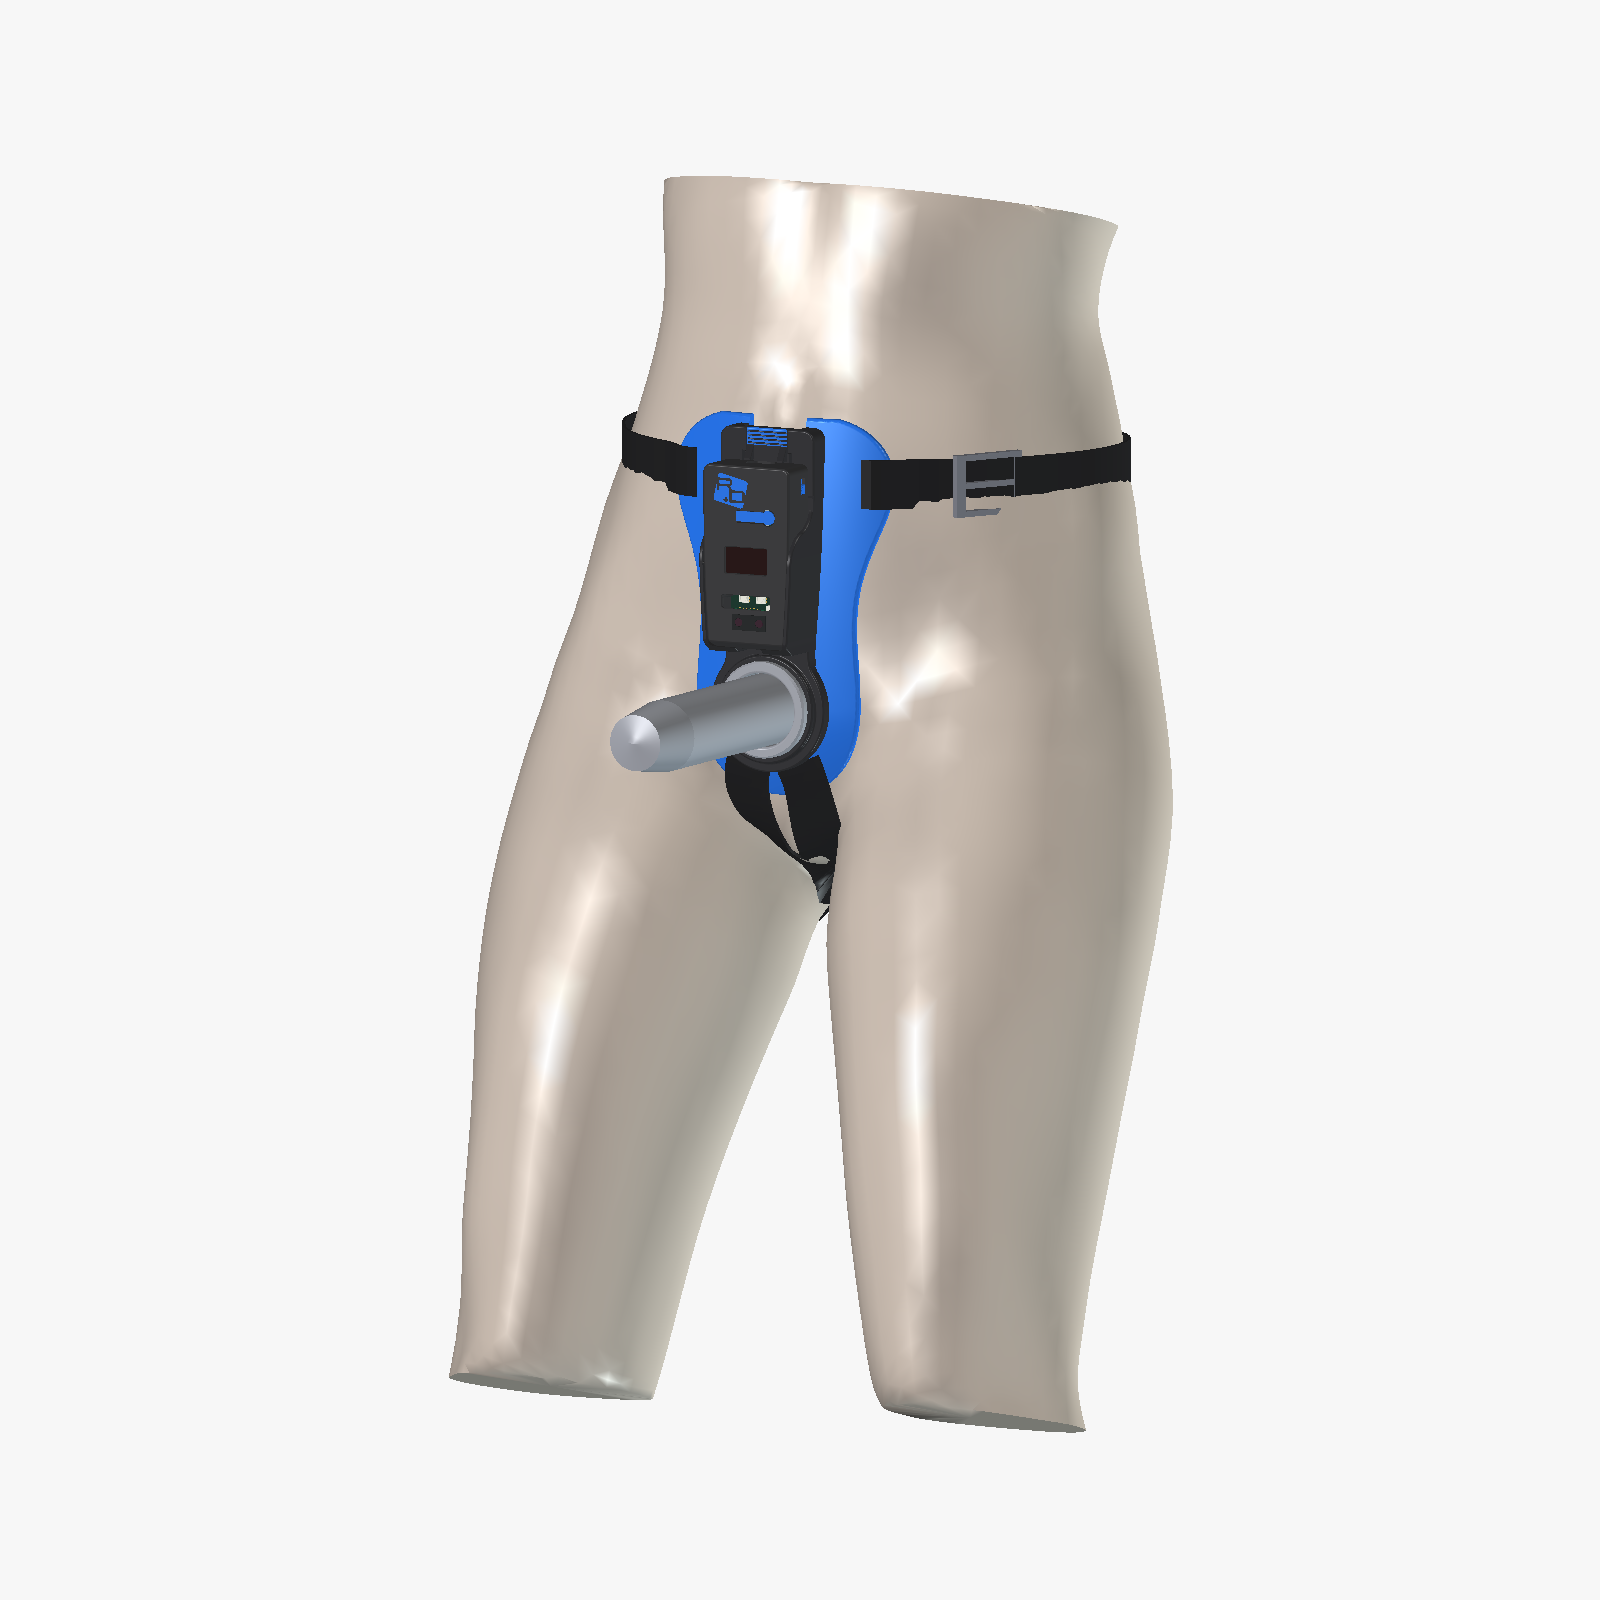
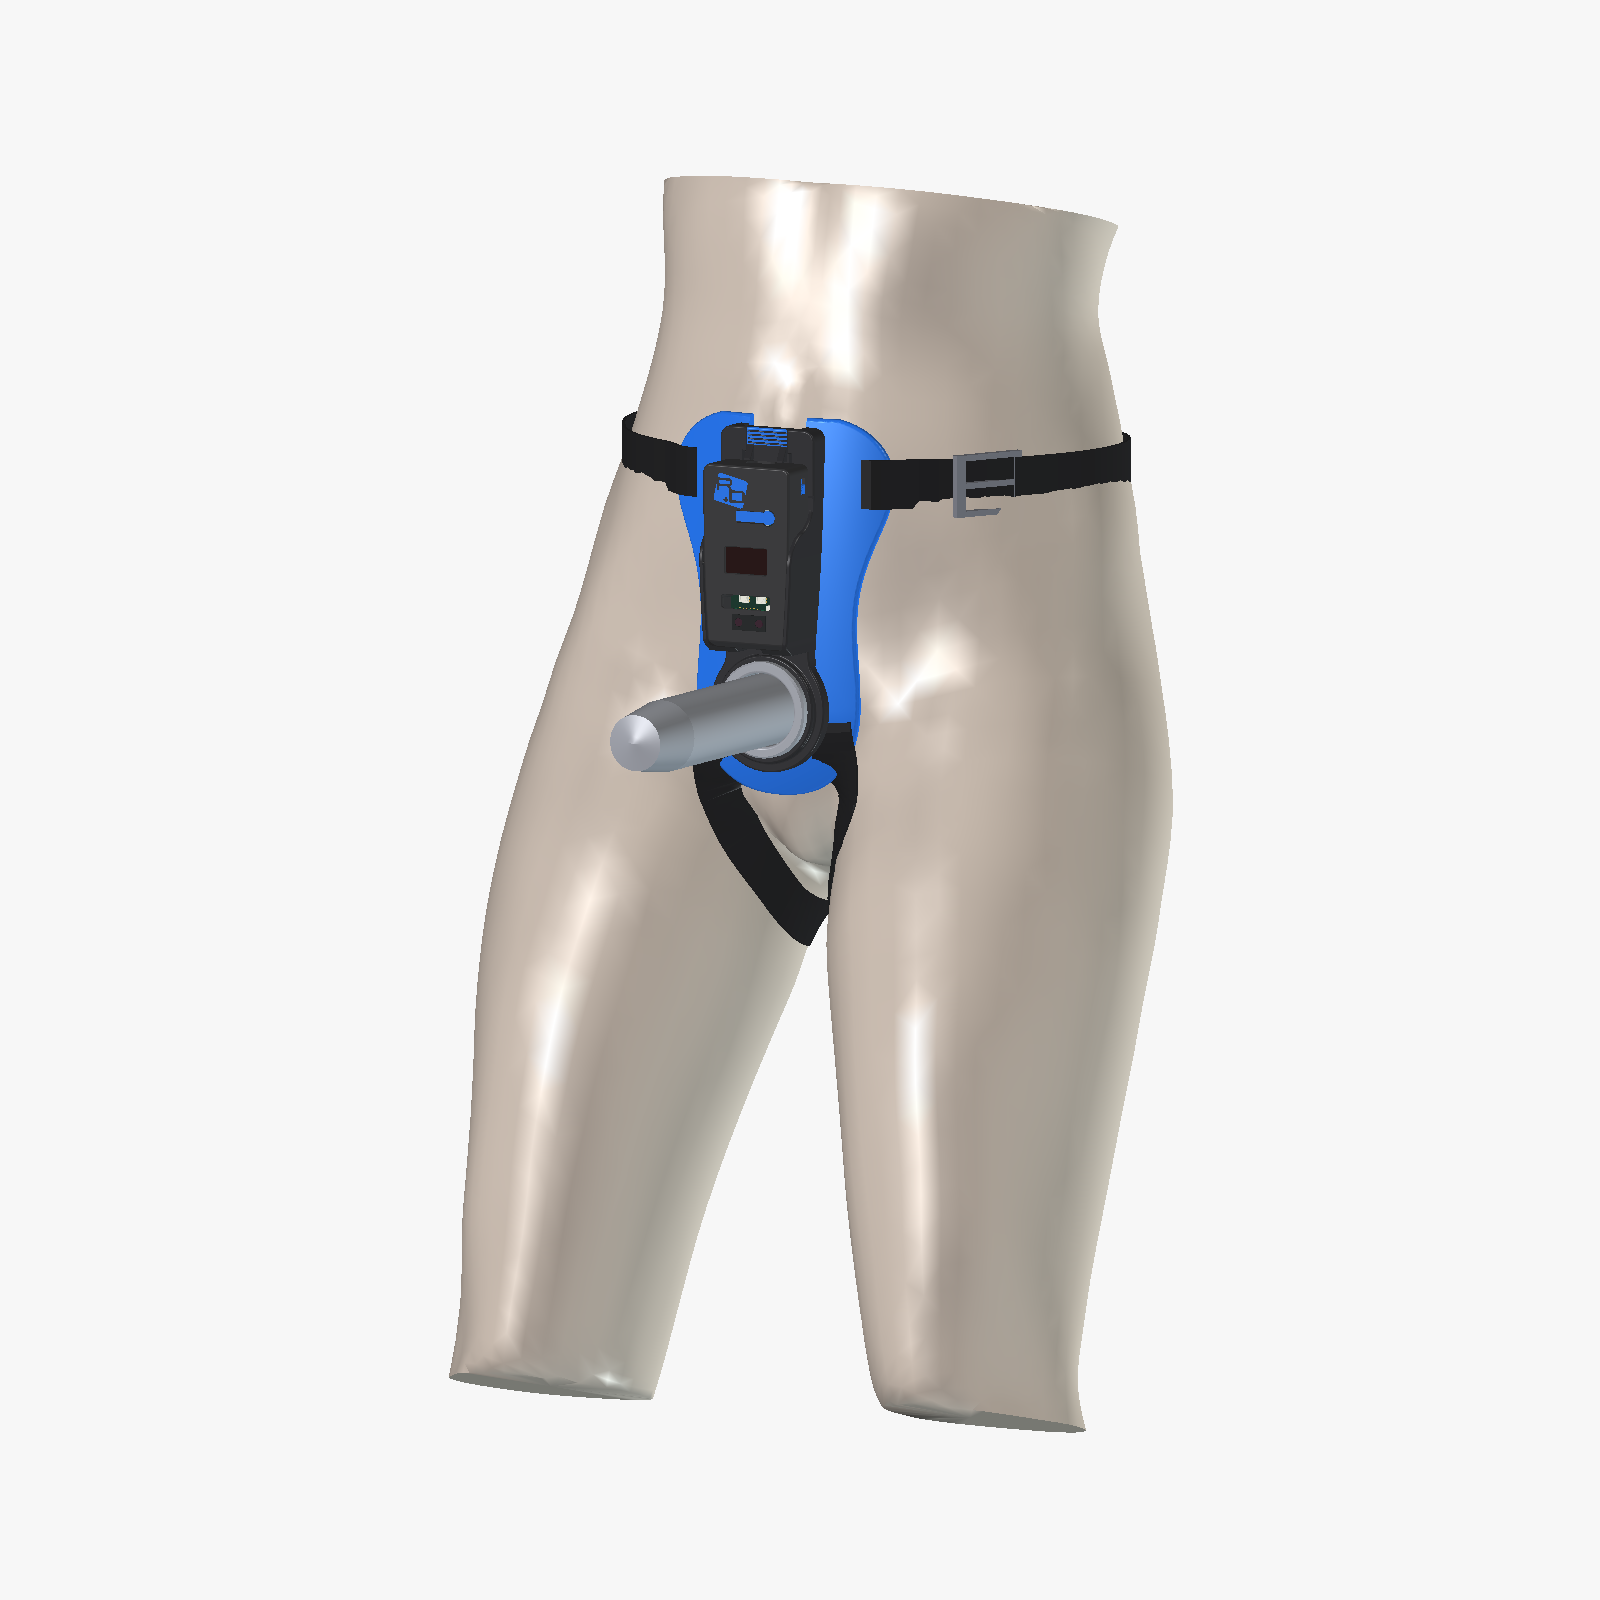
Harness mount renders: leg straps in the leg creases, sewn to the panel's lower sides; low view
Claude-Session: https://claude.ai/code/session_015TvGgGvu7tctJ5621JJq9j

Changed region(s): [[0.4375, 0.4375, 0.5625, 0.5938]]

diff --git a/hardware/cad/harness-mount/render_on_body.py b/hardware/cad/harness-mount/render_on_body.py
@@ -138,8 +138,9 @@ def belt(m, panel):
 
 
 # leg strap waypoints (x out from the toy axis, y, z), between them the shortest path over the skin
-LEG_PATH = [(12, -110, -45), (10, -136, -110), (18, -150, -125), (40, -158, -140), (65, -130, -190),
-            (76, -40, -215), (70, 40, -200), (66, 80, -195)]
+# in the leg crease beside the vulva, round the top of the inner thigh into the cheek's fold
+LEG_PATH = [(36, -88, -22), (30, -108, -32), (23, -128, -45), (17, -148, -70), (20, -160, -110),
+            (40, -160, -140), (65, -130, -190), (76, -40, -215), (70, 40, -200), (66, 80, -195)]
 
 
 def surface_path(m, targets):
@@ -181,9 +182,9 @@ def surface_path(m, targets):
 
 
 def leg_strap(m, panel, s):
-    """Sewn onto the front of the panel tip, down the crease at the top of the inner thigh, under the cheek
-    in its fold and up the outside of the back to the belt, jockstrap style."""
-    front = on_surface(m, panel, [(V(AX + s * x, y, 200), V(0, 0, -1), False) for x, y in [(14, -62), (17, -72)]])
+    """Sewn onto the front of the panel's lower side, down the leg crease, round the top of the inner thigh,
+    under the cheek in its fold and up the outside of the back to the belt, jockstrap style."""
+    front = on_surface(m, panel, [(V(AX + s * x, y, 200), V(0, 0, -1), False) for x, y in [(32, -40), (34, -56)]])
     return strip(front + surface_path(m, [V(AX + s * x, y, z) for x, y, z in LEG_PATH]))
 
 
@@ -273,6 +274,7 @@ def main():
     pic = 'Harness-Mount-Ring-On-Body'
     shoot(src, pic + '-Front.png', App.Rotation(V(0, 1, 0), 28).multiply(App.Rotation(V(1, 0, 0), -8)))
     shoot(src, pic + '-Side.png', App.Rotation(V(0, 1, 0), 90).multiply(App.Rotation(V(1, 0, 0), -4)))
+    shoot(src, pic + '-Low.png', App.Rotation(V(0, 1, 0), 35).multiply(App.Rotation(V(1, 0, 0), 30)))
     shoot(src, pic + '-Back.png', App.Rotation(V(0, 1, 0), 28).multiply(App.Rotation(V(1, 0, 0), -8)), turned=True)
     App.closeDocument(src.Name)
 

diff --git a/hardware/cad/harness-mount/README.md b/hardware/cad/harness-mount/README.md
@@ -19,9 +19,9 @@ with the waist and leg webbing sewn to its hip ears and tip.
 Worn, on MakeHuman's CC0 average female body (`render_on_body.py`). The panel
 curve is fitted to it; worn this way the toy points about 14° down.
 
-| Front | Side | Back |
-| --- | --- | --- |
-| ![Front](images/Harness-Mount-Ring-On-Body-Front.png) | ![Side](images/Harness-Mount-Ring-On-Body-Side.png) | ![Back](images/Harness-Mount-Ring-On-Body-Back.png) |
+| Front | Low | Side | Back |
+| --- | --- | --- | --- |
+| ![Front](images/Harness-Mount-Ring-On-Body-Front.png) | ![Low](images/Harness-Mount-Ring-On-Body-Low.png) | ![Side](images/Harness-Mount-Ring-On-Body-Side.png) | ![Back](images/Harness-Mount-Ring-On-Body-Back.png) |
 
 ## Use
 
@@ -33,7 +33,7 @@ curve is fitted to it; worn this way the toy points about 14° down.
   thread the toy on from the front.
 - **Panel:** 2 mm leather (or neoprene) over about 3 mm foam, lined, cut to
   the `-Panel` outline. Sew 1 in (25 mm) webbing to the hip ears (waist) and
-  the tip (two jock-style leg straps). Four 5 mm Chicago screws join it to the
+  the lower sides (two jock-style leg straps, in the leg creases, clear of the vulva). Four 5 mm Chicago screws join it to the
   core; in the ring version the ring flange clamps it too.
 - **DTT:** slides in and releases as on the snap backplate. Use a right-angle
   3.5 mm plug with the O-ring version.
